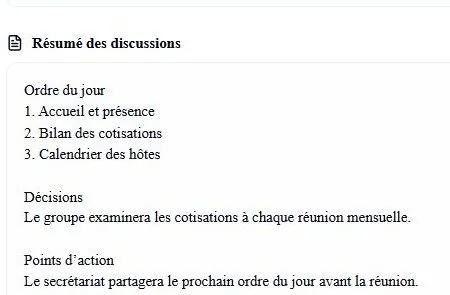
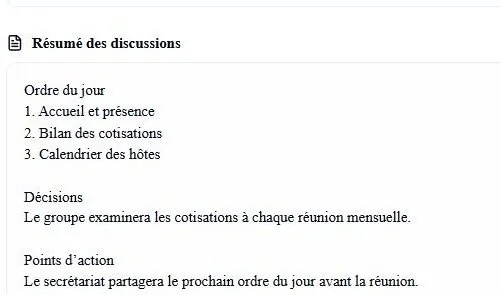
Keep complete mobile minutes text visible

diff --git a/src/app/[locale]/page.tsx b/src/app/[locale]/page.tsx
@@ -109,7 +109,7 @@ export default async function LandingPage({ params }: { params: Promise<{ locale
             <figure className="vc-hero-visual">
               <div className="vc-screen-top"><span className="vc-screen-dot" /><span className="vc-screen-dot" /><span className="vc-screen-dot" /><span>{c.heroLabel}</span></div>
               <Image className="vc-hero-desktop-image" src={minutesImage} width={1288} height={570} alt={c.heroLabel} priority sizes="(max-width: 1100px) 55vw, 680px" />
-              <Image className="vc-hero-mobile-image" src={mobileMinutesImage} width={450} height={295} alt={c.heroLabel} priority sizes="(max-width: 760px) calc(100vw - 40px), 590px" />
+              <Image className="vc-hero-mobile-image" src={mobileMinutesImage} width={500} height={295} alt={c.heroLabel} priority sizes="(max-width: 760px) calc(100vw - 40px), 590px" />
               <figcaption>{c.illustrative} · <a href={minutesImage} target="_blank" rel="noopener noreferrer">{c.fullImage}</a></figcaption>
             </figure>
           </div>
